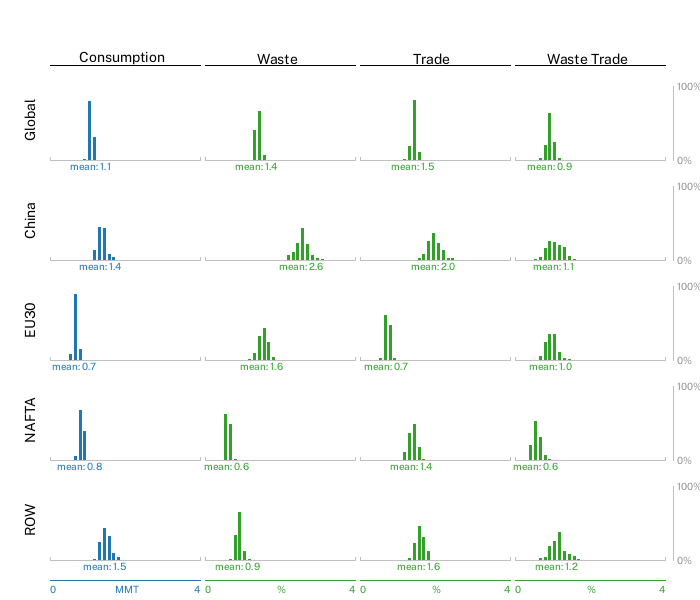
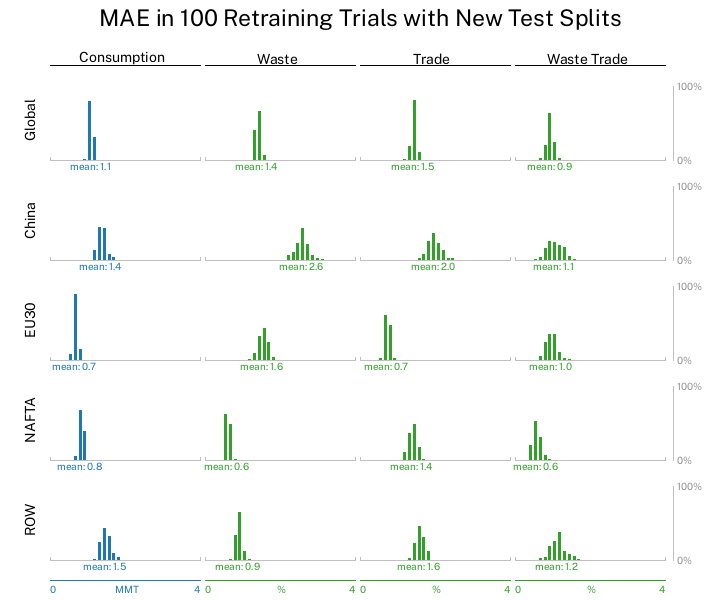
Finish trials plot.

diff --git a/plot_trials.py b/plot_trials.py
@@ -258,7 +258,17 @@ def load_summary(sketch, loc, type_name, region):
 
 
 def draw_title(sketch):
-    pass
+    sketch.push_transform()
+    sketch.push_style()
+
+    sketch.set_text_font(FONT_SRC, 23)
+    sketch.set_text_align('center', 'bottom')
+    sketch.clear_stroke()
+    sketch.set_fill('#000000')
+    sketch.draw_text(360, 30, 'MAE in 100 Retraining Trials with New Test Splits')
+
+    sketch.pop_style()
+    sketch.pop_transform()
 
 
 def main():
@@ -272,7 +282,7 @@ def main():
     waste_trade_loc = sys.argv[4]
     output_loc = sys.argv[5]
 
-    sketch = sketchingpy.Sketch2DStatic(700, 600)
+    sketch = sketchingpy.Sketch2DStatic(720, 600)
     sketch.clear('#FFFFFF')
     draw_meta_axis(sketch)
 
